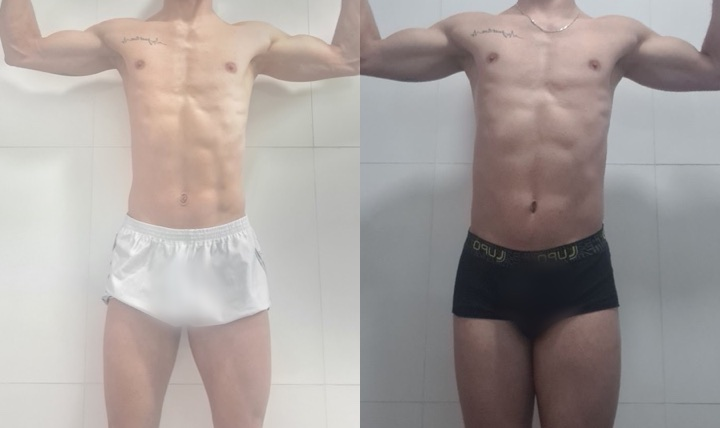
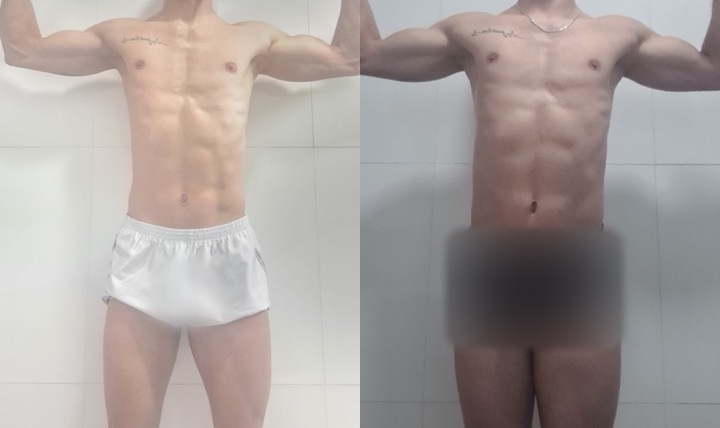
Reforça desfoque nas fotos de evolução com cueca

Changed region(s): [[0.6111, 0.5164, 0.8861, 0.8201]]

diff --git a/consultoriapv/index.html b/consultoriapv/index.html
@@ -71,7 +71,7 @@
             </div>
           </article>
           <article class="result-card" aria-labelledby="case-gm">
-            <img class="result-comparison" src="./assets/evolucoes/evolucao-03.jpg" width="720" height="428" loading="lazy" alt="Evolução física. Foto inicial à esquerda e final à direita.">
+            <img class="result-comparison" src="./assets/evolucoes/evolucao-03.jpg?v=desfoque-2" width="720" height="428" loading="lazy" alt="Evolução física. Foto inicial à esquerda e final à direita.">
             <div class="result-details">
               <h3 class="result-change" id="case-gm"><span class="result-sign result-sign-plus"><span>+</span></span><span>7,6 kg</span></h3>
               <p>Objetivo: Ganho de massa muscular</p>
@@ -79,7 +79,7 @@
             </div>
           </article>
           <article class="result-card" aria-labelledby="case-06">
-            <img class="result-comparison" src="./assets/evolucoes/evolucao-06.jpg" width="720" height="428" loading="lazy" alt="Evolução física. Foto inicial à esquerda e final à direita.">
+            <img class="result-comparison" src="./assets/evolucoes/evolucao-06.jpg?v=desfoque-2" width="720" height="428" loading="lazy" alt="Evolução física. Foto inicial à esquerda e final à direita.">
             <div class="result-details">
               <h3 class="result-change result-loss" id="case-06"><span class="result-sign"><span>−</span></span><span>6 kg</span></h3>
               <p>Objetivo: Emagrecimento</p>
@@ -95,7 +95,7 @@
             </div>
           </article>
           <article class="result-card" aria-labelledby="case-ls">
-            <img class="result-comparison" src="./assets/evolucoes/evolucao-01.jpg" width="720" height="428" loading="lazy" alt="Evolução física. Foto inicial à esquerda e final à direita.">
+            <img class="result-comparison" src="./assets/evolucoes/evolucao-01.jpg?v=desfoque-2" width="720" height="428" loading="lazy" alt="Evolução física. Foto inicial à esquerda e final à direita.">
             <div class="result-details">
               <h3 class="result-change" id="case-ls"><span class="result-sign result-sign-plus"><span>+</span></span><span>6,2 kg</span></h3>
               <p>Objetivo: Ganho de massa muscular</p>
